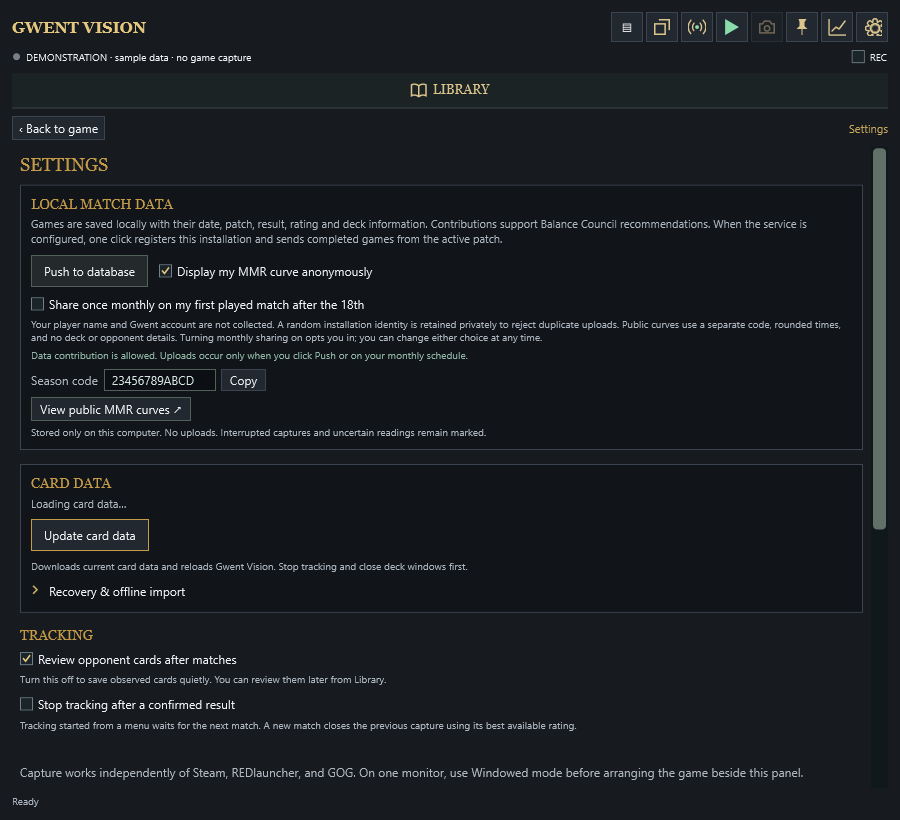
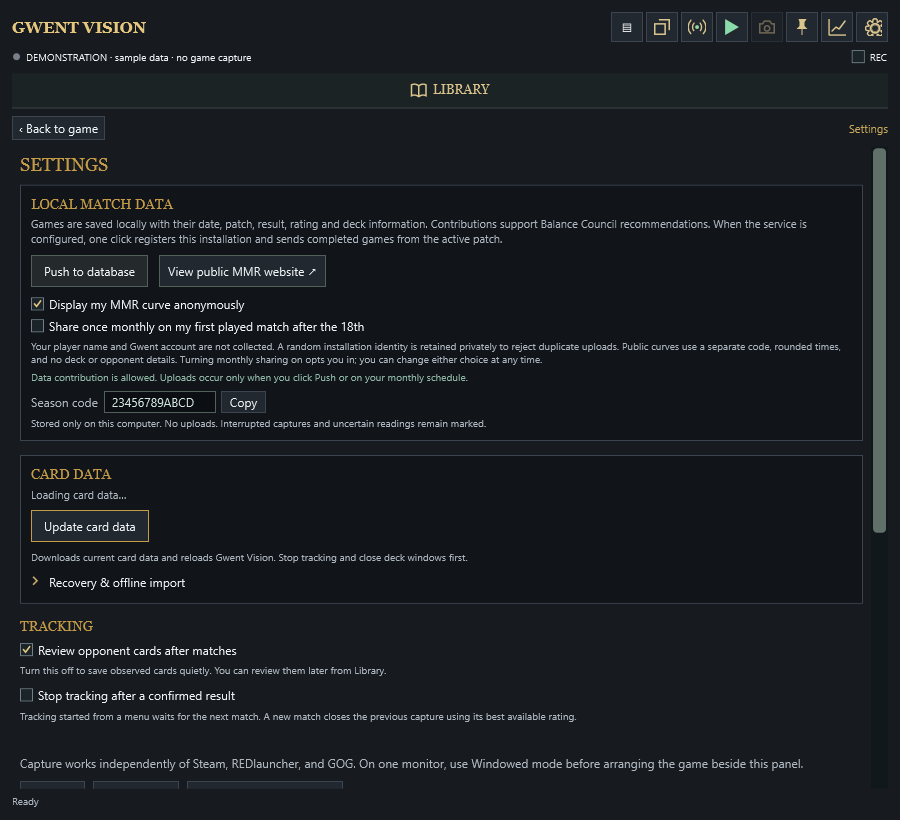
Add public MMR website button to data settings

Changed region(s): [[0.0, 0.3659, 0.9333, 0.9451], [0.1867, 0.3049, 0.4044, 0.3354]]

diff --git a/src/GwentCompanion.App/MainWindow.xaml b/src/GwentCompanion.App/MainWindow.xaml
@@ -231,8 +231,9 @@
     <TextBlock Text="Games are saved locally with their date, patch, result, rating and deck information. Contributions support Balance Council recommendations. When the service is configured, one click registers this installation and sends completed games from the active patch." TextWrapping="Wrap" FontSize="11" Foreground="{StaticResource MutedTextBrush}" Margin="0,5,0,9"/>
     <WrapPanel>
         <Button x:Name="PushToDatabaseButton" Content="Push to database" IsEnabled="False" Opacity="0.5" Background="#242A2C" BorderBrush="#52605A" Foreground="{StaticResource TextBrush}" Click="PushToDatabase_OnClick" AutomationProperties.Name="Push to database (service not configured)" ToolTip="This build has no configured database address yet." ToolTipService.ShowOnDisabled="True"/>
-        <CheckBox x:Name="PublishAnonymousCurveChoice" Content="Display my MMR curve anonymously" IsChecked="True" VerticalAlignment="Center" Foreground="{StaticResource TextBrush}" Margin="3,0,0,8" Checked="DataContributionChoice_OnChanged" Unchecked="DataContributionChoice_OnChanged" AutomationProperties.Name="Display my monthly MMR curve anonymously"/>
+        <Button x:Name="PublicMmrSiteButton" Content="View public MMR website ↗" Click="OpenPublicMmrSite_OnClick" Padding="8,3" Margin="3,0,0,8" BorderBrush="#52605A" Foreground="#D5E7DF" AutomationProperties.Name="Open public MMR website" ToolTip="Open the anonymous season charts in your browser."/>
     </WrapPanel>
+    <CheckBox x:Name="PublishAnonymousCurveChoice" Content="Display my MMR curve anonymously" IsChecked="True" Foreground="{StaticResource TextBrush}" Margin="0,1,0,5" Checked="DataContributionChoice_OnChanged" Unchecked="DataContributionChoice_OnChanged" AutomationProperties.Name="Display my monthly MMR curve anonymously"/>
     <CheckBox x:Name="AutomaticMonthlyUploadChoice" IsChecked="False" Foreground="{StaticResource TextBrush}" Margin="0,1,0,5" Checked="DataContributionChoice_OnChanged" Unchecked="DataContributionChoice_OnChanged" AutomationProperties.Name="Automatically share monthly match data"><TextBlock Text="Share once monthly on my first played match after the 18th" TextWrapping="Wrap"/></CheckBox>
     <TextBlock Text="Your player name and Gwent account are not collected. A random installation identity is retained privately to reject duplicate uploads. Public curves use a separate code, rounded times, and no deck or opponent details. Turning monthly sharing on opts you in; you can change either choice at any time." TextWrapping="Wrap" FontSize="10" Foreground="{StaticResource MutedTextBrush}" Margin="0,0,0,5"/>
     <TextBlock x:Name="DataContributionConsentStatus" Text="Choose whether to contribute when prompted. Nothing has been uploaded." TextWrapping="Wrap" FontSize="10" Foreground="#91B9A7" Margin="0,0,0,3"/>
@@ -241,7 +242,6 @@
         <TextBox x:Name="SeasonCodeText" IsReadOnly="True" MinWidth="112" Background="#0B0E12" Foreground="#D5E7DF" BorderBrush="#52605A" Padding="5,2"/>
         <Button Content="Copy" Click="CopySeasonCode_OnClick" Padding="8,2" Margin="5,0,0,0" AutomationProperties.Name="Copy season code"/>
     </WrapPanel>
-    <Button x:Name="PublicMmrSiteButton" Content="View public MMR curves ↗" Click="OpenPublicMmrSite_OnClick" HorizontalAlignment="Left" Padding="8,3" Margin="0,4,0,3" BorderBrush="#52605A" Foreground="#D5E7DF" AutomationProperties.Name="Open public season MMR curves" ToolTip="Open the anonymous season charts in your browser."/>
     <TextBlock x:Name="MatchStorageStatus" Text="Stored only on this computer. No uploads. Interrupted captures and uncertain readings remain marked." TextWrapping="Wrap" FontSize="10" Foreground="{StaticResource MutedTextBrush}" Margin="0,2,0,0"/>
 </StackPanel></Border>
 <Border Background="#11151A" BorderBrush="{StaticResource BorderBrush}" BorderThickness="1" Padding="10" Margin="0,0,0,14"><StackPanel>

diff --git a/src/GwentCompanion.App/MainWindow.WorkspaceSmoke.cs b/src/GwentCompanion.App/MainWindow.WorkspaceSmoke.cs
@@ -147,6 +147,9 @@ public partial class MainWindow
             window.DataContributionConsentStatus.Text = "Data contribution is allowed. Uploads occur only when you click Push or on your monthly schedule.";
             window.SeasonCodePanel.Visibility = Visibility.Visible; window.SeasonCodeText.Text = "23456789ABCD";
             Render("settings", 900, 820, UiPage.Settings);
+            Check(ReferenceEquals(window.PublicMmrSiteButton.Parent, window.PushToDatabaseButton.Parent) &&
+                window.PublicMmrSiteButton.Content?.ToString()?.Contains("public MMR website", StringComparison.OrdinalIgnoreCase) == true,
+                "The public MMR website button is not beside Push to database.");
             Check(window.FindName("TopmostCheckBox") is null && window.FindName("EnableExperimentalAnalysisChoice") is null &&
                 window.FindName("PinCurrentButton") is null && window.FindName("OpenSessionButton") is null,
                 "Retired Settings controls returned.");

diff --git a/README.md b/README.md
@@ -1,6 +1,6 @@
 # Gwent Vision
 
-Gwent Vision is a free, open-source Windows companion for *GWENT: The Witcher Card Game*. Version 0.3 tracks the opponent cards shown during a match, adds an extended deck library with new quality-of-life features, saves your match history, and displays matchup and MMR charts.
+Gwent Vision is a free, open-source Windows companion for *GWENT: The Witcher Card Game*. New features in version 0.3 include an in-game tracker that records opponent cards played, an extended deck library with new quality-of-life features, and a new statistical center to analyze match data.
 
 It is an unofficial, not-for-profit fan project. Gwent Vision provides no predictive gameplay features.
 
@@ -8,27 +8,25 @@ It is an unofficial, not-for-profit fan project. Gwent Vision provides no predic
 
 ## Live tracking
 
-The **Opponent Cards** view records cards as they appear on the game screen. It marks cards created or spawned during the match so they are not mistaken for cards from the opponent's starting deck. The Candidates view provides a searchable list of every card in the usual deck-builder order.
+The **Opponent Cards** view records cards as they appear on the game screen. It marks cards created or spawned during the match so the saved opponent list distinguishes them from starting-deck cards. The Candidates view provides a searchable list of cards the player can use to fill gaps in the opponent list.
 
-In the wide layout, Opponent Cards, Candidates, and Snapshots appear in three columns. Compact mode shows the same tools one at a time beside a windowed game. The selected player deck shares the Library row in wide mode, so it remains obvious without taking space from opponent cards.
+In the wide layout, Opponent Cards, Candidates, and Snapshots appear in three columns. Compact mode shows the same tools one at a time beside a windowed game. Players can also select the deck they are using, and Gwent Vision saves that complete deck with each match.
 
 ![Wide Gwent Vision view with Opponent Cards, Candidates, and Snapshots](docs/images/live-opponent-cards.png)
 
 ## Match Data
 
-Every completed match is saved on your computer with its date, game patch, result, round scores, faction MMR when available, your selected deck, and the opponent cards that were detected. Match Data opens in its own resizable or full-screen window and initially shows the latest saved patch.
+Every completed match is saved on your computer with its date, game patch, result, round scores, faction MMR when available, your selected deck, and the opponent cards that were detected. The Match Data button opens a window with charts and summaries. We welcome suggestions for other statistics the community would find useful.
 
-- **Match history** shows wins in green and losses in red, together with both factions and leader abilities. Expanding a match shows your complete saved deck on the left and the opponent deck information on the right. Detected cards and estimated cards appear in one list, with labels and a slight fade to show which is which.
+- **Expanding a match** shows your complete saved deck on the left and the opponent deck information on the right. Detected cards and estimated cards appear in one list, with labels and a slight fade to show which is which.
 - **Factions and leaders** shows how often you face each faction or leader and your win rate against each one. It can also show the same information for the factions and leaders you play.
-- **Your progress** plots each faction's MMR against the number of games played with that faction. It also highlights results that may be useful to review when improving your play.
+- **Your progress** plots each faction's MMR against the number of games played with that faction.
 
 ![Patch-filtered match history](docs/images/match-data-history.png)
 
 ![Faction matchup view](docs/images/match-data-matchups.png)
 
 ![Faction MMR progress and gameplay statistics](docs/images/match-data-progress.png)
-
-Players below Pro Rank do not have faction MMR, so those matches remain in history and matchup summaries while rating charts leave the unavailable rating blank.
 
 ## Deck library, snapshots, and recording
 
@@ -40,15 +38,15 @@ Snapshots keep selected game screens available for quick review. Optional diagno
 
 ## Optional data contribution
 
-The first time Gwent Vision opens, it asks whether you would like to contribute match data for Balance Council recommendations. You can press **Push to database** more than once; each push sends only new matches or updated results from the current patch. You can also choose to share automatically after your first match played on or after the 18th of each month.
+The first time Gwent Vision opens, it asks whether you would like to contribute match data for Balance Council recommendations. Throughout the month, you can press **Push to database** in Settings to upload your completed matches to a private, anonymized database. Approved contributors can use the combined results to prepare Balance Council recommendations. You can also turn on automatic sharing, which sends new data once on or after the 18th of each month.
 
-The connection is already included in the download, so there is no account, API key, or database setup for users. Submitted matches are linked to a random installation ID rather than a player name. This research data is not published and can be accessed only by approved analysts. It does not include player names, Gwent account IDs, screenshots, or recordings. Read the [data contribution and privacy policy](docs/DATA-CONTRIBUTION-PRIVACY.md) for the complete details.
+This research data is not published in full and can be accessed only by approved contributors. It does not include player names, Gwent account IDs, screenshots, or recordings. Read the [data contribution and privacy policy](docs/DATA-CONTRIBUTION-PRIVACY.md) for the complete details.
 
-The option to display your MMR curve anonymously is separate and is turned on by default. After a successful push, the app gives you a season code. Enter that code on the [public season site](https://amkokot.github.io/GwentVision/) to highlight your own line. The public charts contain only anonymous MMR points grouped into 15-minute time blocks. They do not include decks, opponents, match IDs, installation IDs, or exact times.
+As a community feature, you have the option to display your faction MMR progress through the month against other players. After a successful push, the app gives you a season code to identify your curve among the many presented on the [public season site](https://amkokot.github.io/GwentVision/).
 
 The site provides:
 
-- a Total MMR line based on the highest rating reached with up to four factions; factions you have not played count as zero, and the line never moves down;
+- a Total MMR line based on the highest rating reached with up to four factions;
 - separate MMR lines for each faction, with the option to display all factions together; and
 - daily faction popularity and win rate once enough users have contributed data to protect privacy.
 
